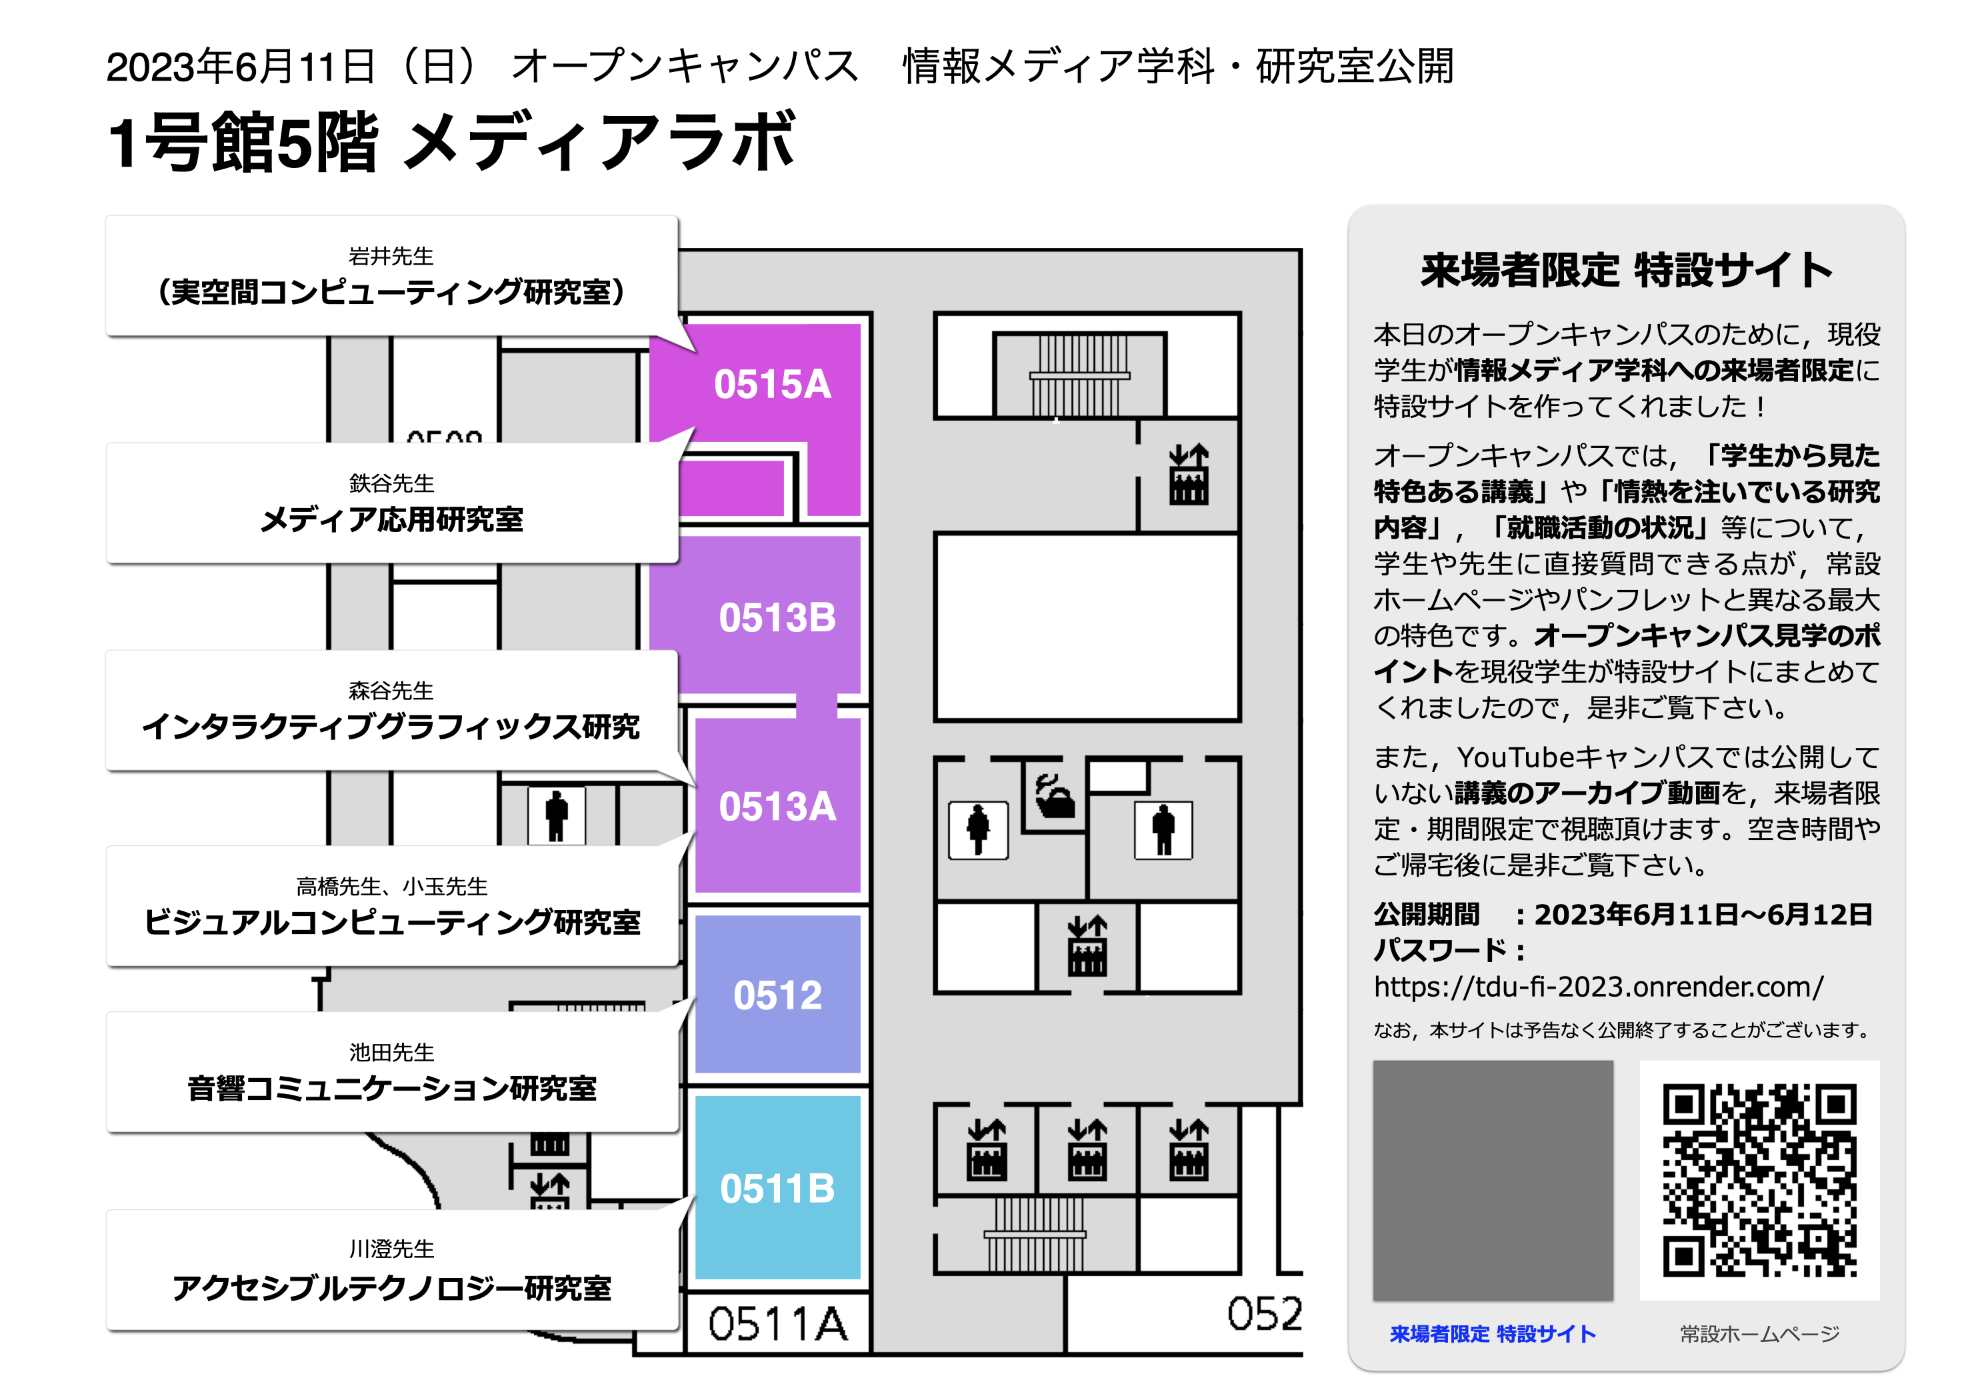
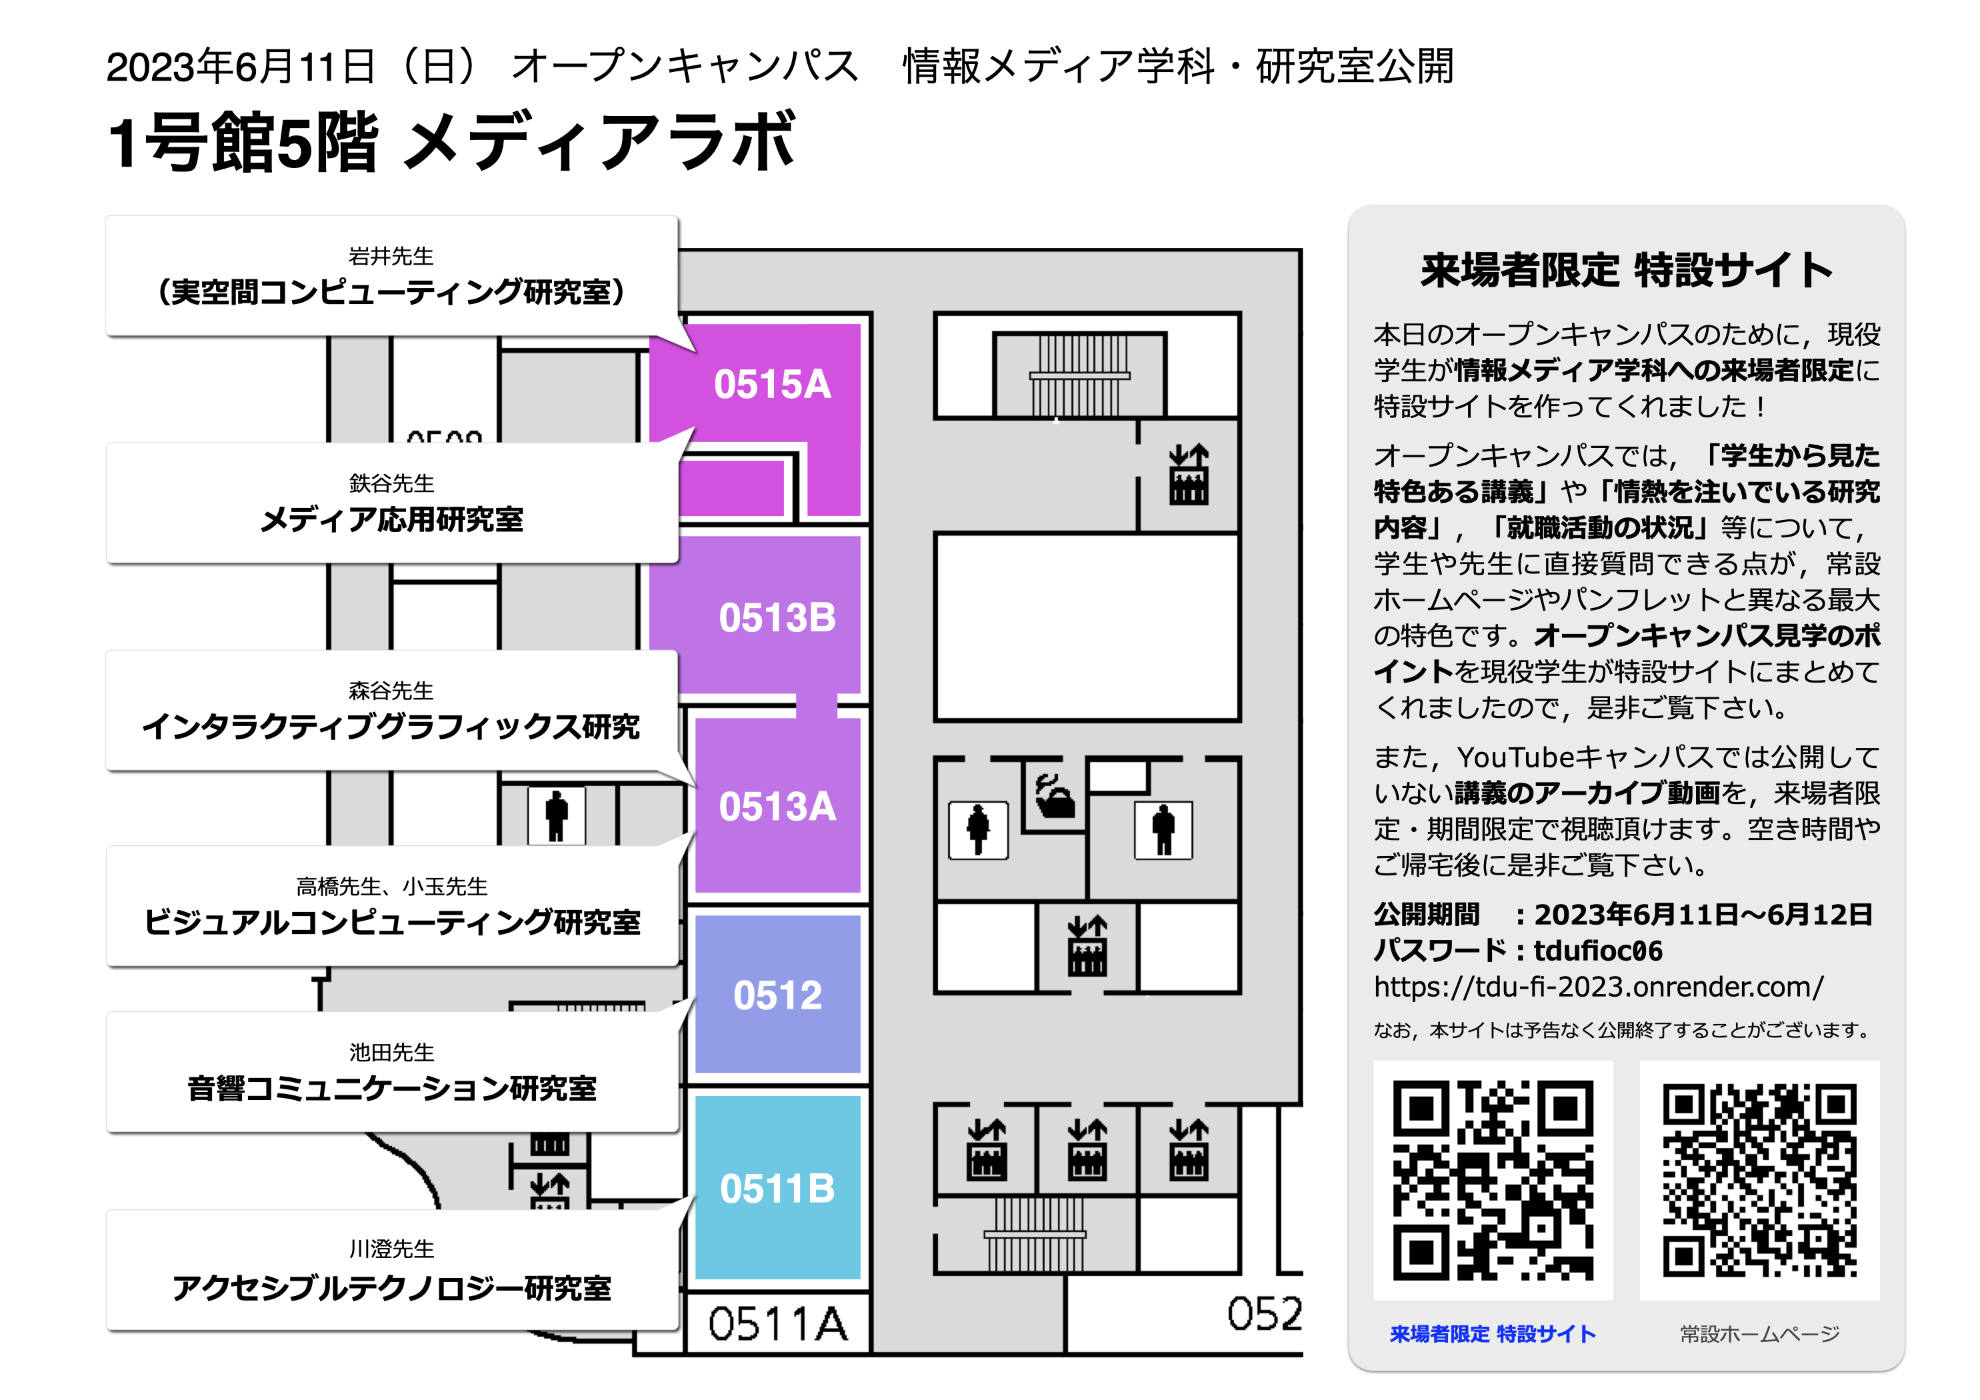
update: attention

Changed region(s): [[0.6778, 0.7371, 0.8318, 0.9521], [0.7702, 0.6757, 0.8318, 0.7064]]

diff --git a/src/views/AttentionView.vue b/src/views/AttentionView.vue
@@ -1,10 +1,14 @@
 <template>
   <div id="contents" class="py-4 pa-4">
+    <div class="pb-2" style="display: flex">
+      <div style="margin: 0 0 0 auto">
+        <p class="zen-kaku-medium">更新日：2023年6月9日</p>
+      </div>
+    </div>
     <p class="zen-kaku-bold pb-4" style="font-size: 1.6em">ご利用にあたって</p>
     <p class="zen-kaku-regular pb-10">
       このウェブサイトhttps://tdu-fi-2023.onrender.com/（以下「本ウェブサイト」といいます）は、東京電機大学大学院
-      井ノ上研究室所属の学生（以下「当研究室」といいます）が運営しており、東京電機大学（以下「本校」といいます）の公式ウェブサイトではありません。
-      本ウェブサイトを利用される前に以下の注意点をお読みいただき、ご了解いただいたうえでご利用ください。なお、当研究室は、本ウェブサイトの利用条件を予告なしに変更することがありますので、最新のご利用条件をご確認ください。
+      井ノ上研究室所属の学生（以下「当研究室」といいます）が運営しており、東京電機大学（以下「本校」といいます）の公式ウェブサイトではありません。本ウェブサイトを利用される前に以下の注意点をお読みいただき、ご了解いただいたうえでご利用ください。なお、当研究室は、本ウェブサイトの利用条件を予告なしに変更することがありますので、最新のご利用条件をご確認ください。
     </p>
 
     <p class="zen-kaku-bold pb-3" style="font-size: 1.2em">1. 免責事項</p>
@@ -15,8 +19,8 @@
 
     <p class="zen-kaku-bold pb-3" style="font-size: 1.2em">2. 著作権について</p>
     <p class="zen-kaku-regular pb-8">
-      サイトに掲載されるすべての情報は、当研究室が著作権を保有し法律により保護されています。個人の私的使用、その他著作権法によって認められる範囲を超えて、これらの情報を使用（複製、改変、転用、アップロード、掲示、送信、頒布、販売、出版を含む）することは、事前に当研究室から許可を得ない限り禁止します。
-      また、当サイトを雑誌書籍、広告などの出版物へ引用掲載される場合は、事前に当研究室まで文章にてお知らせください。その際、お問合せの方のお名前、ご連絡先（住所、電話番号およびメールアドレス）、媒体名、掲載の概要を明記してください。掲載の内容や方法によっては、掲載をお断りすることがありますのでご了承ください。
+      本ウェブサイトに掲載されるすべての情報は、当研究室が著作権を保有し法律により保護されています。個人の私的使用、その他著作権法によって認められる範囲を超えて、これらの情報を使用（複製、改変、転用、アップロード、掲示、送信、頒布、販売、出版を含む）することは、事前に当研究室から許可を得ない限り禁止します。
+      また、本ウェブサイトを雑誌書籍、広告などの出版物へ引用掲載される場合は、事前に当研究室まで文章にてお知らせください。その際、お問合せの方のお名前、ご連絡先（住所、電話番号およびメールアドレス）、媒体名、掲載の概要を明記してください。掲載の内容や方法によっては、掲載をお断りすることがありますのでご了承ください。
     </p>
 
     <p class="zen-kaku-bold pb-3" style="font-size: 1.2em">3. リンクについて</p>
@@ -30,35 +34,120 @@
     <ul class="zen-kaku-regular pb-8">
       <li class="mb-2">
         <span class="zen-kaku-bold">Webブラウザ<br /> </span>
-        当サイトでは、より快適にご利用いただくために、Google
-        Chrome（最新バージョン）でご覧になることを推奨いたします。（Mozilla
+        本ウェブサイトでは、より快適にご利用いただくために、Google
+        Chrome（最新バージョン）でご覧になることを推奨いたします。 （Mozilla
         Firefox 最新バージョン、Safari最新バージョン（Mac OSのみ）、Microsoft
         Edge 最新バージョンでもご覧いただけます。）
         推奨環境以外でのご利用や、推奨環境下でもwebブラウザの設定によってはご利用できない、もしくは正しく表示されない場合がございます。
       </li>
       <li class="mb-2">
         <span class="zen-kaku-bold">JavaScript<br /> </span>
-        当サイトでは、JavaScriptを使用しているページがございます。お使いのブラウザでJavaScript機能を無効にされている場合、正しく機能しない、もしくは正しく表示されないことがあります。ご覧になる際にはブラウザ設定でJavaScriptを有効にしてください。
+        本ウェブサイトでは、JavaScriptを使用しているページがございます。お使いのブラウザでJavaScript機能を無効にされている場合、正しく機能しない、もしくは正しく表示されないことがあります。ご覧になる際にはブラウザ設定でJavaScriptを有効にしてください。
         設定方法は各ブラウザのヘルプをご参照ください。
       </li>
       <li class="mb-2">
         <span class="zen-kaku-bold">スタイルシート<br /> </span>
-        当サイトではスタイルシートを使用しております。お使いのブラウザでスタイルシートを無効にされている場合、正しく表示されないことがあります。ご覧になる際にはブラウザ設定でスタイルシートを有効にしてください。
-      </li>
-      <li class="mb-2">
-        <span class="zen-kaku-bold">スタイルシート<br /> </span>
-        当サイトではスタイルシートを使用しております。お使いのブラウザでスタイルシートを無効にされている場合、正しく表示されないことがあります。ご覧になる際にはブラウザ設定でスタイルシートを有効にしてください。
+        本ウェブサイトではスタイルシートを使用しております。お使いのブラウザでスタイルシートを無効にされている場合、正しく表示されないことがあります。ご覧になる際にはブラウザ設定でスタイルシートを有効にしてください。
       </li>
       <li class="mb-2">
         <span class="zen-kaku-bold">プラグイン<br /> </span>
-        当サイトでは、PDFを用いたコンテンツがあります。ご覧いただくためには、PDF閲覧用ソフトAdobe®Reader®が必要です。Adobe®Reader®は、アドビ社のホームページから無料でダウンロードできます。<br />
+        本ウェブサイトでは、PDFを用いたコンテンツがあります。ご覧いただくためには、PDF閲覧用ソフトAdobe®Reader®が必要です。Adobe®Reader®は、アドビ社のホームページから無料でダウンロードできます。
+        <br />
         <a href="https://get.adobe.com/jp/reader/?loc=jp">▶ Adobe®Reader®</a>
       </li>
     </ul>
-    <p class="zen-kaku-bold pb-3" style="font-size: 1.2em">
-      5. プライバシーポリシー
+
+    <p class="zen-kaku-bold pb-3" style="font-size: 1.2em">5. MyNote</p>
+    <p class="zen-kaku-regular pb-8">
+      本ウェブサイトのMyNoteという機能では、データを保存するために「localStorage（ローカルストレージ）」と呼ばれる技術を使用しています。
+      ローカルストレージとはWeb
+      Storageの一種で、クライアント側（ブラウザ）にデータを<span
+        class="zen-kaku-bold"
+        >永続的</span
+      >に保有するため、ブラウザを開いたり閉じたりをしても利用状況が保持されます。データを完全に削除するためには、ご自身が利用されているブラウザ毎にご対応をよろしくお願いいたします。<br />
+      <span style="display: block" class="my-2">
+        <a
+          style="display: list-item; list-style: none"
+          href="https://support.google.com/accounts/answer/32050?hl=ja&co=GENIE.Platform%3DDesktop"
+        >
+          ▶ Google Chrome
+        </a>
+        <a
+          style="display: list-item; list-style: none"
+          href="https://support.mozilla.org/ja/kb/storage"
+        >
+          ▶ Mozilla Firefox
+        </a>
+        <a
+          style="display: list-item; list-style: none"
+          href="https://support.apple.com/ja-jp/HT201265"
+        >
+          ▶ Safari
+        </a>
+        <a
+          style="display: list-item; list-style: none"
+          href="https://support.microsoft.com/ja-jp/microsoft-edge/microsoft-edge-%E9%96%B2%E8%A6%A7%E3%83%87%E3%83%BC%E3%82%BF-%E3%81%8A%E3%82%88%E3%81%B3%E3%83%97%E3%83%A9%E3%82%A4%E3%83%90%E3%82%B7%E3%83%BC-b7aa740f-acb8-773a-e46b-7c13681ea3df"
+        >
+          ▶ Microsoft Edge
+        </a>
+      </span>
+
+      MyNoteに登録した項目やメモの内容は、クリップボードにコピーまたはPDFファイルとして出力できます。データを完全に削除する前にバックアップを取ることを推奨いたします。出力したデータはご自身が責任を持って管理し、外部に掲載されないようお願いいたします。また、MyNoteには個人情報や名誉毀損、プライバシーの侵害、誹謗・中傷を含む事柄は記入しないでください。情報が漏洩した際に上記の理由によって生じたいかなるトラブル・損失・損害に対しても当研究室は責任を負いかねますのであらかじめご了承ください。
     </p>
-    <p class="zen-kaku-regular pb-8">hogehoge</p>
+
+    <p class="zen-kaku-bold pb-3" style="font-size: 1.2em">
+      6. 本ウェブサイトにおける個人情報の取扱いについて
+    </p>
+    <ul class="zen-kaku-regular pb-8">
+      <li class="mb-2">
+        本ウェブサイトは、ご自身の個人情報を開示することなく訪れていただくことができます。ページを参照しただけでは、個人を識別できる情報が収集されることはありません。ウェブサイトのアクセス数などの利用状況を調べるために統計的な傾向を分析することはありますが、その分析のための情報に個人情報が含まれることはありません。
+      </li>
+      <li class="mb-2">
+        本ウェブサイトは、アンケートにて個人情報を取得します。本人の同意なしに取得することはありません。取得した情報は、以下の目的達成に必要な範囲に限り利用します。
+        <span class="zen-kaku-bold pt-2" style="display: block">
+          本ウェブサイトを提供／運営するため
+        </span>
+        本ウェブサイトのご提供および運営のために、以下の利用目的に従い、個人情報を利用させていただきます。
+        <ul>
+          <li>本ウェブサイトの利便性を向上させるため</li>
+          <li>本ウェブサイトの不具合を調査／対応するため</li>
+        </ul>
+        <span class="zen-kaku-bold pt-2" style="display: block">
+          不正利用／不正アクセス等の監視／対策のため
+        </span>
+        本ウェブサイトを安心・安全にご利用いただくために、以下の利用目的に従い、個人情報を利用させていただきます。
+        <ul class="pb-1">
+          <li>
+            皆様の情報等を悪用した違法な行為、利用規約の逸脱、不正なアクセス等を監視、調査するため
+          </li>
+        </ul>
+        <span class="zen-kaku-bold pt-2" style="display: block">
+          マーケティングデータの調査、統計、分析のため
+        </span>
+        当研究室は、より良いサービスを提供するために、以下の利用目的に従い、個人情報を利用させていただきます。
+        <ul class="pb-1">
+          <li>本ウェブサイトの利用状況の調査、統計および分析のため</li>
+          <li>マーケティング活動の効果測定のため</li>
+          <li>
+            本ウェブサイトの利便性の向上その他サービスの品質改善のため（そのために実施されるマーケティングデータの調査、統計、分析を含みます。）
+          </li>
+          <li>
+            新サービス、または本ウェブサイトの新機能および新コンテンツ等の企画開発のため（そのために実施されるマーケティングデータの調査、統計、分析を含みます。）
+          </li>
+        </ul>
+      </li>
+      <li class="mb-2">
+        個人情報は、法令に基づくとき、本人の同意があるとき等を除き、第三者に提供いたしません。また、個人情報は、正確かつ安全に管理します。
+      </li>
+      <li class="mb-2">
+        本ウェブサイト上に外部のサイトへのリンクが貼られることがあります。この外部のサイトで登録される個人情報は、当研究室で管轄する情報ではない為、一切の責任を負うことができません。
+        外部のサイトで個人情報を登録される場合は、そのサイトのプライバシーポリシーをご確認ください。
+      </li>
+    </ul>
+    <p class="zen-kaku-bold pb-3" style="font-size: 1.2em">7. 皆様へのお願い</p>
+    <p class="zen-kaku-regular pb-8">
+      本ウェブサイトは、期間限定公開であるため、パスワードで保護してあります。パスワードは、ご自身が責任を持って管理し、外部に掲載されないようお願いいたします。また、本ウェブサイト上に、他の方やご自身の個人情報は掲載されないようお願いいたします。
+    </p>
   </div>
 </template>
 
